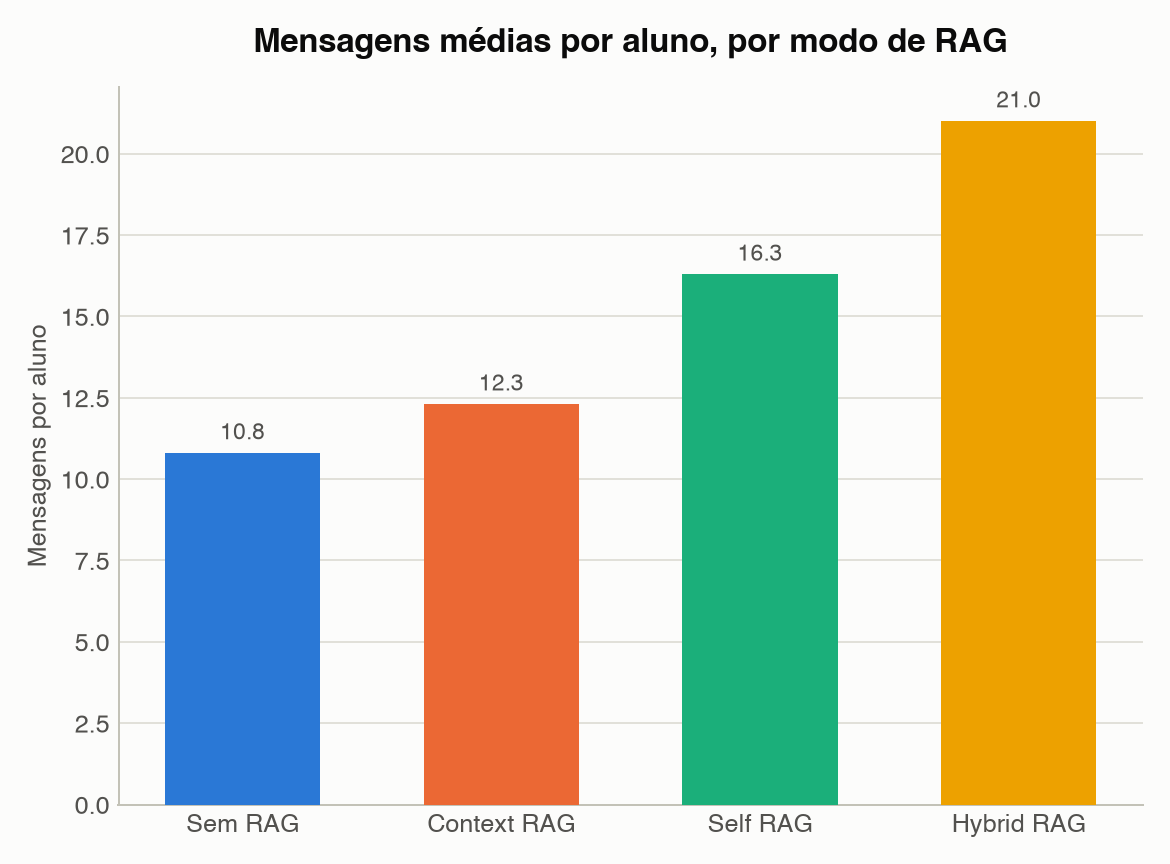
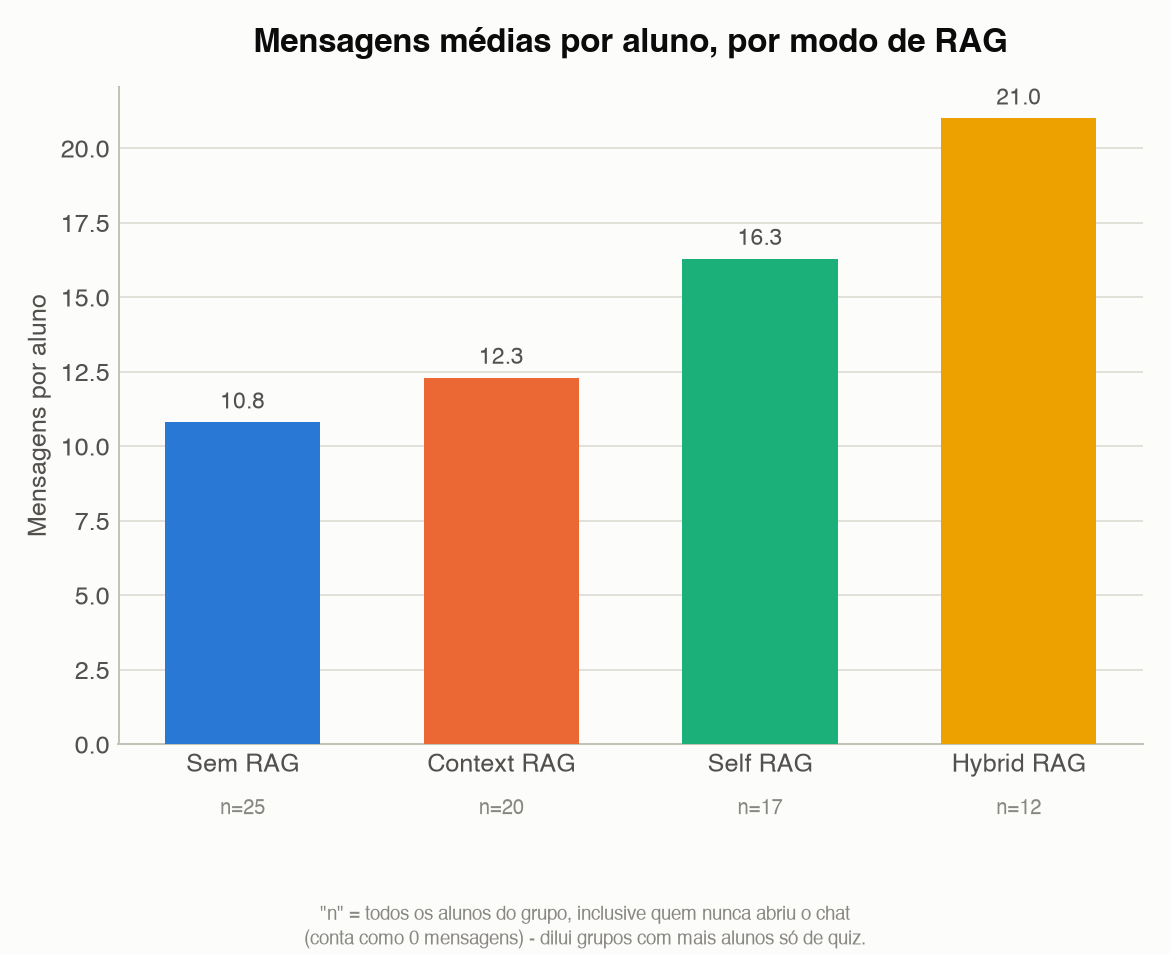
Fix 4 chart clarity issues found in review
- score_recuperacao: "Sem RAG" now shows N/A instead of a misleading 0.0
  bar (the metric doesn't apply, it never retrieves - it's not that the
  relevance was zero).
- acuracia_por_rag_e_dia / acuracia_por_rag_e_assunto: added sample size
  ("n=") under every bar plus value labels on top. The day chart's Hybrid
  RAG spike (78%, Dia 3) turns out to have n=55, a decent sample - but
  Dia 4's n=15 bar needed the same treatment either way.
- mensagens_por_aluno_por_rag: added "n=" and a caption clarifying its
  denominator is the whole group (including non-chatters), since it
  differs from the chat-time chart's denominator (chatters only).
- alunos_por_condicao_e_dia and the other two grouped charts now get top
  value labels for free (grouped_bar() gained bar_labels() calls).

Also fixed a bar_labels() regression along the way: an early attempt to
hide the score chart's misleading 0.0 by skipping height==0 labels
broke the legitimate 0.0% label on taxa_recuperacao's "Sem RAG" bar
(0% retrieval is a real, meaningful value there) - reverted that and
handled the N/A case by not drawing the bar at all instead.

diff --git a/scripts/generate_charts.py b/scripts/generate_charts.py
@@ -71,7 +71,7 @@ def new_fig(width=7.5, height=5.0):
     return fig, ax
 
 
-def bar_labels(ax, bars, fmt="{:.0f}"):
+def bar_labels(ax, bars, fmt="{:.0f}", fontsize=9):
     for b in bars:
         h = b.get_height()
         if h is None:
@@ -83,7 +83,7 @@ def bar_labels(ax, bars, fmt="{:.0f}"):
             textcoords="offset points",
             ha="center",
             va="bottom",
-            fontsize=9,
+            fontsize=fontsize,
             color=INK_SECONDARY,
         )
 
@@ -114,10 +114,14 @@ def simple_bar(summary, key, title, ylabel, out_path, fmt="{:.0f}", pct=False):
 
 
 def grouped_bar(groups, series_keys, series_labels, title, ylabel, out_path,
-                 group_labels=None, fmt="{:.0f}", pct=False, series_colors=None):
+                 group_labels=None, fmt="{:.0f}", pct=False, series_colors=None,
+                 n_counts=None, footnote=None):
     """groups: list of group keys (e.g. subjects or days).
-    series_keys/series_labels: the rag modes plotted within each group."""
-    fig, ax = new_fig(8.5, 5.2)
+    series_keys/series_labels: the rag modes plotted within each group.
+    n_counts: optional {group: {series: n}} - sample size shown under each bar,
+    so a bar built from very few data points doesn't carry the same visual
+    weight as one built from many."""
+    fig, ax = new_fig(8.5, 5.6 if n_counts else 5.2)
     n_groups = len(groups)
     n_series = len(series_keys)
     width = 0.8 / n_series
@@ -128,8 +132,16 @@ def grouped_bar(groups, series_keys, series_labels, title, ylabel, out_path,
         offset = (i - (n_series - 1) / 2) * width
         heights = [groups[g].get(sk) or 0 for g in groups]
         xs = [xi + offset for xi in x]
-        ax.bar(xs, heights, width=width * 0.92, color=colors[sk],
-               label=series_labels[sk], zorder=3)
+        bars = ax.bar(xs, heights, width=width * 0.92, color=colors[sk],
+                       label=series_labels[sk], zorder=3)
+        bar_labels(ax, bars, fmt, fontsize=7.5)
+        if n_counts:
+            for xi, g in zip(xs, groups):
+                n = n_counts.get(g, {}).get(sk)
+                if n is not None:
+                    ax.annotate(f"n={n}", xy=(xi, 0), xytext=(0, -14),
+                                textcoords="offset points", ha="center", va="top",
+                                fontsize=6.5, color=INK_MUTED, rotation=90)
 
     ax.set_xticks(x)
     ax.set_xticklabels(group_labels or list(groups.keys()))
@@ -137,9 +149,27 @@ def grouped_bar(groups, series_keys, series_labels, title, ylabel, out_path,
     ax.set_title(title, fontsize=13, fontweight="bold", color=INK_PRIMARY, pad=14)
     if pct:
         ax.yaxis.set_major_formatter(mticker.PercentFormatter(xmax=100))
-    ax.legend(frameon=False, loc="upper center", bbox_to_anchor=(0.5, -0.12),
+    legend_anchor = -0.16 if n_counts else -0.12
+    ax.legend(frameon=False, loc="upper center", bbox_to_anchor=(0.5, legend_anchor),
                ncol=n_series, fontsize=9)
-    save(fig, out_path)
+    if footnote:
+        fig.text(0.5, 0.01, footnote, ha="center", fontsize=7.5, color=INK_MUTED)
+        fig.tight_layout()
+        fig.subplots_adjust(bottom=0.30 if n_counts else 0.24)
+        out_path.parent.mkdir(parents=True, exist_ok=True)
+        fig.savefig(out_path)
+        plt.close(fig)
+        print(f"  -> {out_path.relative_to(ROOT)}")
+    else:
+        if n_counts:
+            fig.tight_layout()
+            fig.subplots_adjust(bottom=0.26)
+            out_path.parent.mkdir(parents=True, exist_ok=True)
+            fig.savefig(out_path)
+            plt.close(fig)
+            print(f"  -> {out_path.relative_to(ROOT)}")
+        else:
+            save(fig, out_path)
 
 
 def main():
@@ -163,30 +193,39 @@ def main():
     # acurácia por rag x assunto
     subjects = sorted({q["subject"] for q in quiz_answers})
     acc_by_subject = {s: {} for s in subjects}
+    n_by_subject = {s: {} for s in subjects}
     for s in subjects:
         for mode in RAG_ORDER:
             qs = [q for q in quiz_answers if q["subject"] == s and q["rag_mode"] == mode]
             acc_by_subject[s][mode] = (100 * sum(q["is_correct"] for q in qs) / len(qs)) if qs else None
+            n_by_subject[s][mode] = len(qs)
     groups = {s: acc_by_subject[s] for s in subjects}
     grouped_bar(
         groups, RAG_ORDER, RAG_LABELS,
         "Acurácia no quiz por modo de RAG e assunto", "% de respostas corretas",
         CHARTS_DIR / "quiz" / "acuracia_por_rag_e_assunto.png",
-        group_labels=subjects, fmt="{:.0f}%", pct=True,
+        group_labels=subjects, fmt="{:.0f}%", pct=True, n_counts=n_by_subject,
+        footnote="\"n\" = número de respostas de quiz por barra.",
     )
 
-    # acurácia por rag x dia
+    # acurácia por rag x dia - amostras por barra variam bastante (15 a 130
+    # respostas), então o "n" embaixo de cada barra é essencial aqui: sem ele,
+    # um pico como o do Hybrid RAG no Dia 4 (só 15 respostas de 2 alunos)
+    # parece tão confiável quanto uma barra com 130 respostas.
     days = sorted({r["day"] for r in summary_by_day})
     acc_by_day = {f"Dia {d}": {} for d in days}
+    n_by_day = {f"Dia {d}": {} for d in days}
     for d in days:
         for mode in RAG_ORDER:
             row = next((r for r in summary_by_day if r["day"] == d and r["rag_mode"] == mode), None)
             acc_by_day[f"Dia {d}"][mode] = row["quiz_accuracy_pct"] if row else None
+            n_by_day[f"Dia {d}"][mode] = row["quiz_total_answers"] if row else None
     grouped_bar(
         acc_by_day, RAG_ORDER, RAG_LABELS,
         "Acurácia no quiz por modo de RAG e dia de teste", "% de respostas corretas",
         CHARTS_DIR / "quiz" / "acuracia_por_rag_e_dia.png",
-        group_labels=list(acc_by_day.keys()), fmt="{:.0f}%", pct=True,
+        group_labels=list(acc_by_day.keys()), fmt="{:.0f}%", pct=True, n_counts=n_by_day,
+        footnote="\"n\" = número de respostas de quiz por barra - varia bastante entre barras, leia picos de \"n\" baixo com cautela.",
     )
 
     # acertos vs erros: duas barras lado a lado por modo (corretas coloridas pelo
@@ -249,12 +288,34 @@ def main():
     plt.close(fig)
     print(f"  -> {out_path.relative_to(ROOT)}")
 
-    simple_bar(
-        summary, "avg_messages_per_student",
-        "Mensagens médias por aluno, por modo de RAG", "Mensagens por aluno",
-        CHARTS_DIR / "engajamento" / "mensagens_por_aluno_por_rag.png",
-        fmt="{:.1f}",
-    )
+    # mensagens por aluno - o denominador é TODOS os alunos do grupo (inclusive
+    # quem nunca conversou, que entra como 0 mensagens), diferente do gráfico de
+    # tempo de chat acima (que só considera quem de fato conversou). Isso é
+    # deixado explícito aqui com "n=" e uma nota, pra não parecer a mesma base.
+    fig, ax = new_fig(6.5, 5.3)
+    xs = list(range(len(RAG_ORDER)))
+    heights = [by_mode[m]["avg_messages_per_student"] or 0 for m in RAG_ORDER]
+    bars = ax.bar(xs, heights, width=0.6, color=[RAG_COLORS[m] for m in RAG_ORDER], zorder=3)
+    ax.set_xticks(xs)
+    ax.set_xticklabels([RAG_LABELS[m] for m in RAG_ORDER])
+    ax.set_ylabel("Mensagens por aluno")
+    ax.set_title("Mensagens médias por aluno, por modo de RAG", fontsize=13,
+                  fontweight="bold", color=INK_PRIMARY, pad=14)
+    bar_labels(ax, bars, "{:.1f}")
+    for i, m in enumerate(RAG_ORDER):
+        n = by_mode[m]["student_count"]
+        ax.annotate(f"n={n}", xy=(i, 0), xytext=(0, -22), textcoords="offset points",
+                    ha="center", va="top", fontsize=8, color=INK_MUTED)
+    fig.text(0.5, 0.01,
+              "\"n\" = todos os alunos do grupo, inclusive quem nunca abriu o chat\n(conta como 0 mensagens) - dilui grupos com mais alunos só de quiz.",
+              ha="center", fontsize=7.5, color=INK_MUTED, linespacing=1.4)
+    fig.tight_layout()
+    fig.subplots_adjust(bottom=0.22)
+    out_path = CHARTS_DIR / "engajamento" / "mensagens_por_aluno_por_rag.png"
+    out_path.parent.mkdir(parents=True, exist_ok=True)
+    fig.savefig(out_path)
+    plt.close(fig)
+    print(f"  -> {out_path.relative_to(ROOT)}")
 
     # alunos por condição x dia
     students_by_day = {f"Dia {d}": {} for d in days}
@@ -278,12 +339,28 @@ def main():
         fmt="{:.1f}%",
     )
 
-    simple_bar(
-        summary, "avg_retrieval_score",
-        "Score médio de recuperação por modo de RAG", "Score médio (0-100)",
-        CHARTS_DIR / "comportamento_rag" / "score_recuperacao_por_rag.png",
-        fmt="{:.1f}",
-    )
+    # score médio de recuperação - "Sem RAG" nunca busca contexto, então a
+    # métrica não se aplica (None nos dados). Antes isso virava uma barra de
+    # altura 0 rotulada "0.0", como se a IA tivesse buscado algo irrelevante;
+    # agora fica sem barra, com "N/A" escrito no lugar, pra não confundir "não
+    # se aplica" com "buscou e a relevância foi zero".
+    fig, ax = new_fig(6.5, 4.8)
+    xs = list(range(len(RAG_ORDER)))
+    for i, m in enumerate(RAG_ORDER):
+        score = by_mode[m]["avg_retrieval_score"]
+        if score is None:
+            ax.annotate("N/A", xy=(i, 0), xytext=(0, 6), textcoords="offset points",
+                        ha="center", va="bottom", fontsize=10, color=INK_MUTED,
+                        style="italic")
+            continue
+        bar = ax.bar([i], [score], width=0.6, color=RAG_COLORS[m], zorder=3)
+        bar_labels(ax, bar)
+    ax.set_xticks(xs)
+    ax.set_xticklabels([RAG_LABELS[m] for m in RAG_ORDER])
+    ax.set_ylabel("Score médio (0-100)")
+    ax.set_title("Score médio de recuperação por modo de RAG", fontsize=13,
+                  fontweight="bold", color=INK_PRIMARY, pad=14)
+    save(fig, CHARTS_DIR / "comportamento_rag" / "score_recuperacao_por_rag.png")
 
     # tempo de resposta em segundos
     fig, ax = new_fig(6.5, 4.8)

diff --git a/charts/README.md b/charts/README.md
@@ -25,7 +25,7 @@ O mesmo % de acerto, mas separado pelos 3 assuntos cobrados no quiz (Estruturas 
 ### Acurácia por modo de RAG e dia de teste
 ![Acurácia por modo de RAG e dia de teste](quiz/acuracia_por_rag_e_dia.png)
 
-O % de acerto repetido para cada um dos 4 dias de teste (Dia 1 e 2 = Gaspar Viana, Dia 3 e 4 = IFPA). É o gráfico que mostra se um resultado é **consistente** (o RAG ganha em quase todo dia) ou se foi só sorte de um dia específico — por exemplo, o Hybrid RAG dispara no Dia 3, mas isso pode ser porque o grupo daquele dia era menor ou mais forte, não necessariamente porque o RAG ficou melhor.
+O % de acerto repetido para cada um dos 4 dias de teste (Dia 1 e 2 = Gaspar Viana, Dia 3 e 4 = IFPA). É o gráfico que mostra se um resultado é **consistente** (o RAG ganha em quase todo dia) ou se foi só sorte de um dia específico. O "n" embaixo de cada barra (número de respostas de quiz que formam aquela %) varia bastante — de 15 a 130 — então uma barra com "n" baixo merece mais cautela antes de virar conclusão. O pico do Hybrid RAG no Dia 3 (78%, n=55) é o resultado mais chamativo do gráfico; vale olhar com atenção ao "n" de cada barra antes de comparar picos entre si.
 
 ### Respostas corretas vs incorretas por modo de RAG
 ![Respostas corretas vs incorretas por modo de RAG](quiz/acertos_vs_erros_por_rag.png)
@@ -46,7 +46,7 @@ Para cada aluno que usou o chat, mede o tempo entre a primeira e a última mensa
 ### Mensagens médias por aluno, por modo de RAG
 ![Mensagens médias por aluno, por modo de RAG](engajamento/mensagens_por_aluno_por_rag.png)
 
-Quantas mensagens (do aluno + da IA somadas) cada aluno trocou, em média, dentro de cada grupo. É um indicador de engajamento mais confiável que o tempo, porque não depende de "quanto tempo a aba ficou aberta" — reflete quanto o aluno efetivamente interagiu. O Hybrid RAG teve a maior média (21 mensagens/aluno), o "Sem RAG" a menor (10,8).
+Quantas mensagens (do aluno + da IA somadas) cada aluno trocou, em média, dentro de cada grupo. É um indicador de engajamento mais confiável que o tempo, porque não depende de "quanto tempo a aba ficou aberta" — reflete quanto o aluno efetivamente interagiu. O Hybrid RAG teve a maior média (21 mensagens/aluno), o "Sem RAG" a menor (10,8). **Atenção ao denominador**: aqui o "n" embaixo de cada barra é *todo* o grupo (inclusive quem nunca abriu o chat, que entra como 0 mensagens) — diferente do gráfico de tempo acima, que só conta quem conversou. Por isso os dois gráficos não são diretamente comparáveis número a número.
 
 ### Nº de alunos ativos por modo de RAG e dia de teste
 ![Nº de alunos ativos por modo de RAG e dia de teste](engajamento/alunos_por_condicao_e_dia.png)
@@ -67,7 +67,7 @@ De todas as respostas que a IA deu, em quantas ela foi buscar um trecho de mater
 ### Score médio de recuperação por modo de RAG
 ![Score médio de recuperação por modo de RAG](comportamento_rag/score_recuperacao_por_rag.png)
 
-Quando o RAG buscou um trecho de material, esse trecho vinha com uma nota de 0 a 100 dizendo o quão relevante ele era para a pergunta do aluno (calculada pelo próprio sistema de busca). O gráfico mostra a média dessa nota — quanto maior, mais "relevante" era o material que a IA estava usando para montar a resposta. "Sem RAG" não aparece aqui, porque nunca busca nada.
+Quando o RAG buscou um trecho de material, esse trecho vinha com uma nota de 0 a 100 dizendo o quão relevante ele era para a pergunta do aluno (calculada pelo próprio sistema de busca). O gráfico mostra a média dessa nota — quanto maior, mais "relevante" era o material que a IA estava usando para montar a resposta. "Sem RAG" aparece como **N/A** (não como uma barra de valor 0) — a métrica simplesmente não existe pra esse modo, já que ele nunca busca nada.
 
 ### Tempo médio de resposta por modo de RAG
 ![Tempo médio de resposta por modo de RAG](comportamento_rag/tempo_resposta_por_rag.png)
